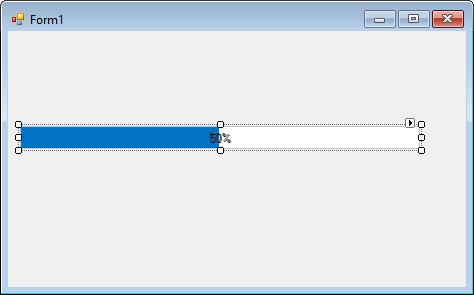
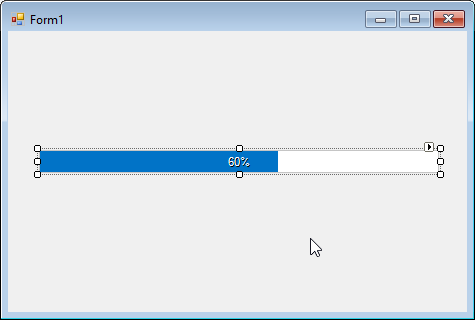
WF-43487- Improve Overview and GettingStarted of Wizard, CommandBar and ProgressBarAdv Changes Commited

diff --git a/WindowsForms/ProgressBarAdv/Creating-ProgressBarAdv.md b/WindowsForms/ProgressBarAdv/Creating-ProgressBarAdv.md
@@ -162,6 +162,8 @@ ProgressBarAdv progressBarAdv1 = new ProgressBarAdv();
 
 this.progressBarAdv1.ProgressStyle = ProgressBarStyles.Office2016Colorful;
 
+ this.progressBarAdv1.Value = 60;
+
 this.Controls.Add(progressBarAdv1);
 
 {% endhighlight %}
@@ -171,6 +173,8 @@ this.Controls.Add(progressBarAdv1);
 Dim progressBarAdv1 As ProgressBarAdv = New ProgressBarAdv()
 
 Me.progressBarAdv1.ProgressStyle = ProgressBarStyles.Office2016Colorful
+
+ this.progressBarAdv1.Value = 60
 
 Me.Controls.Add(progressBarAdv1)
 
